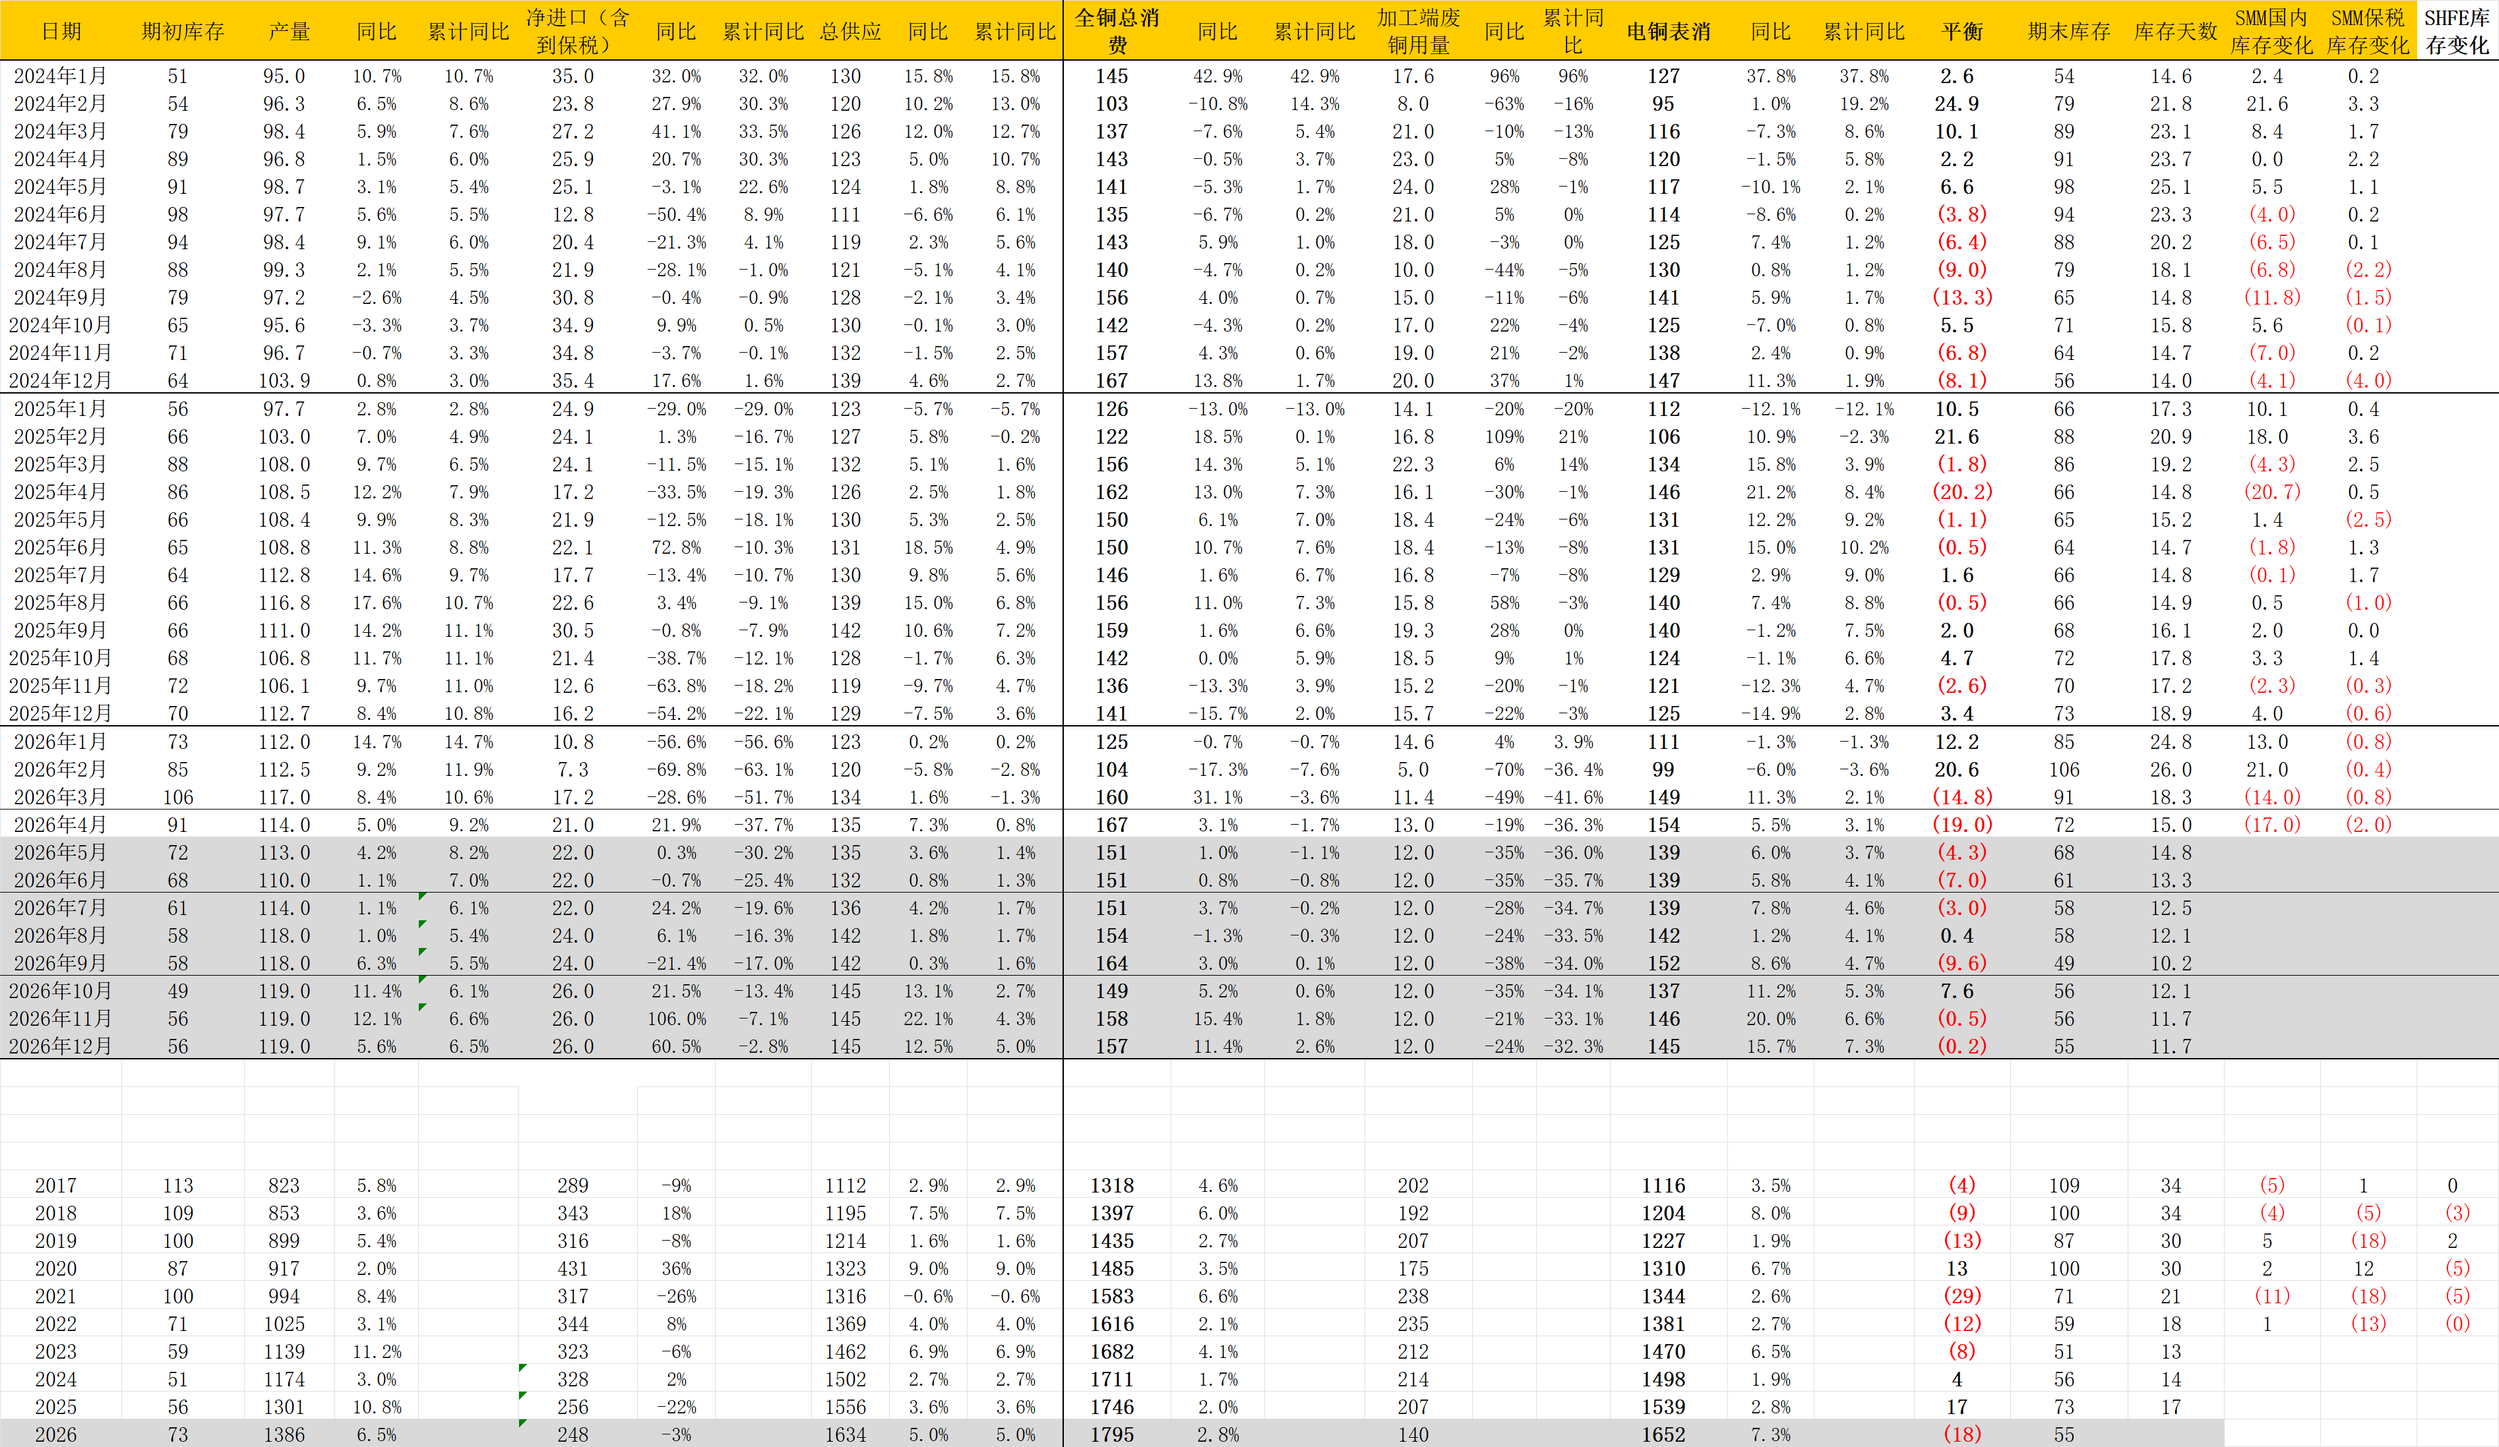
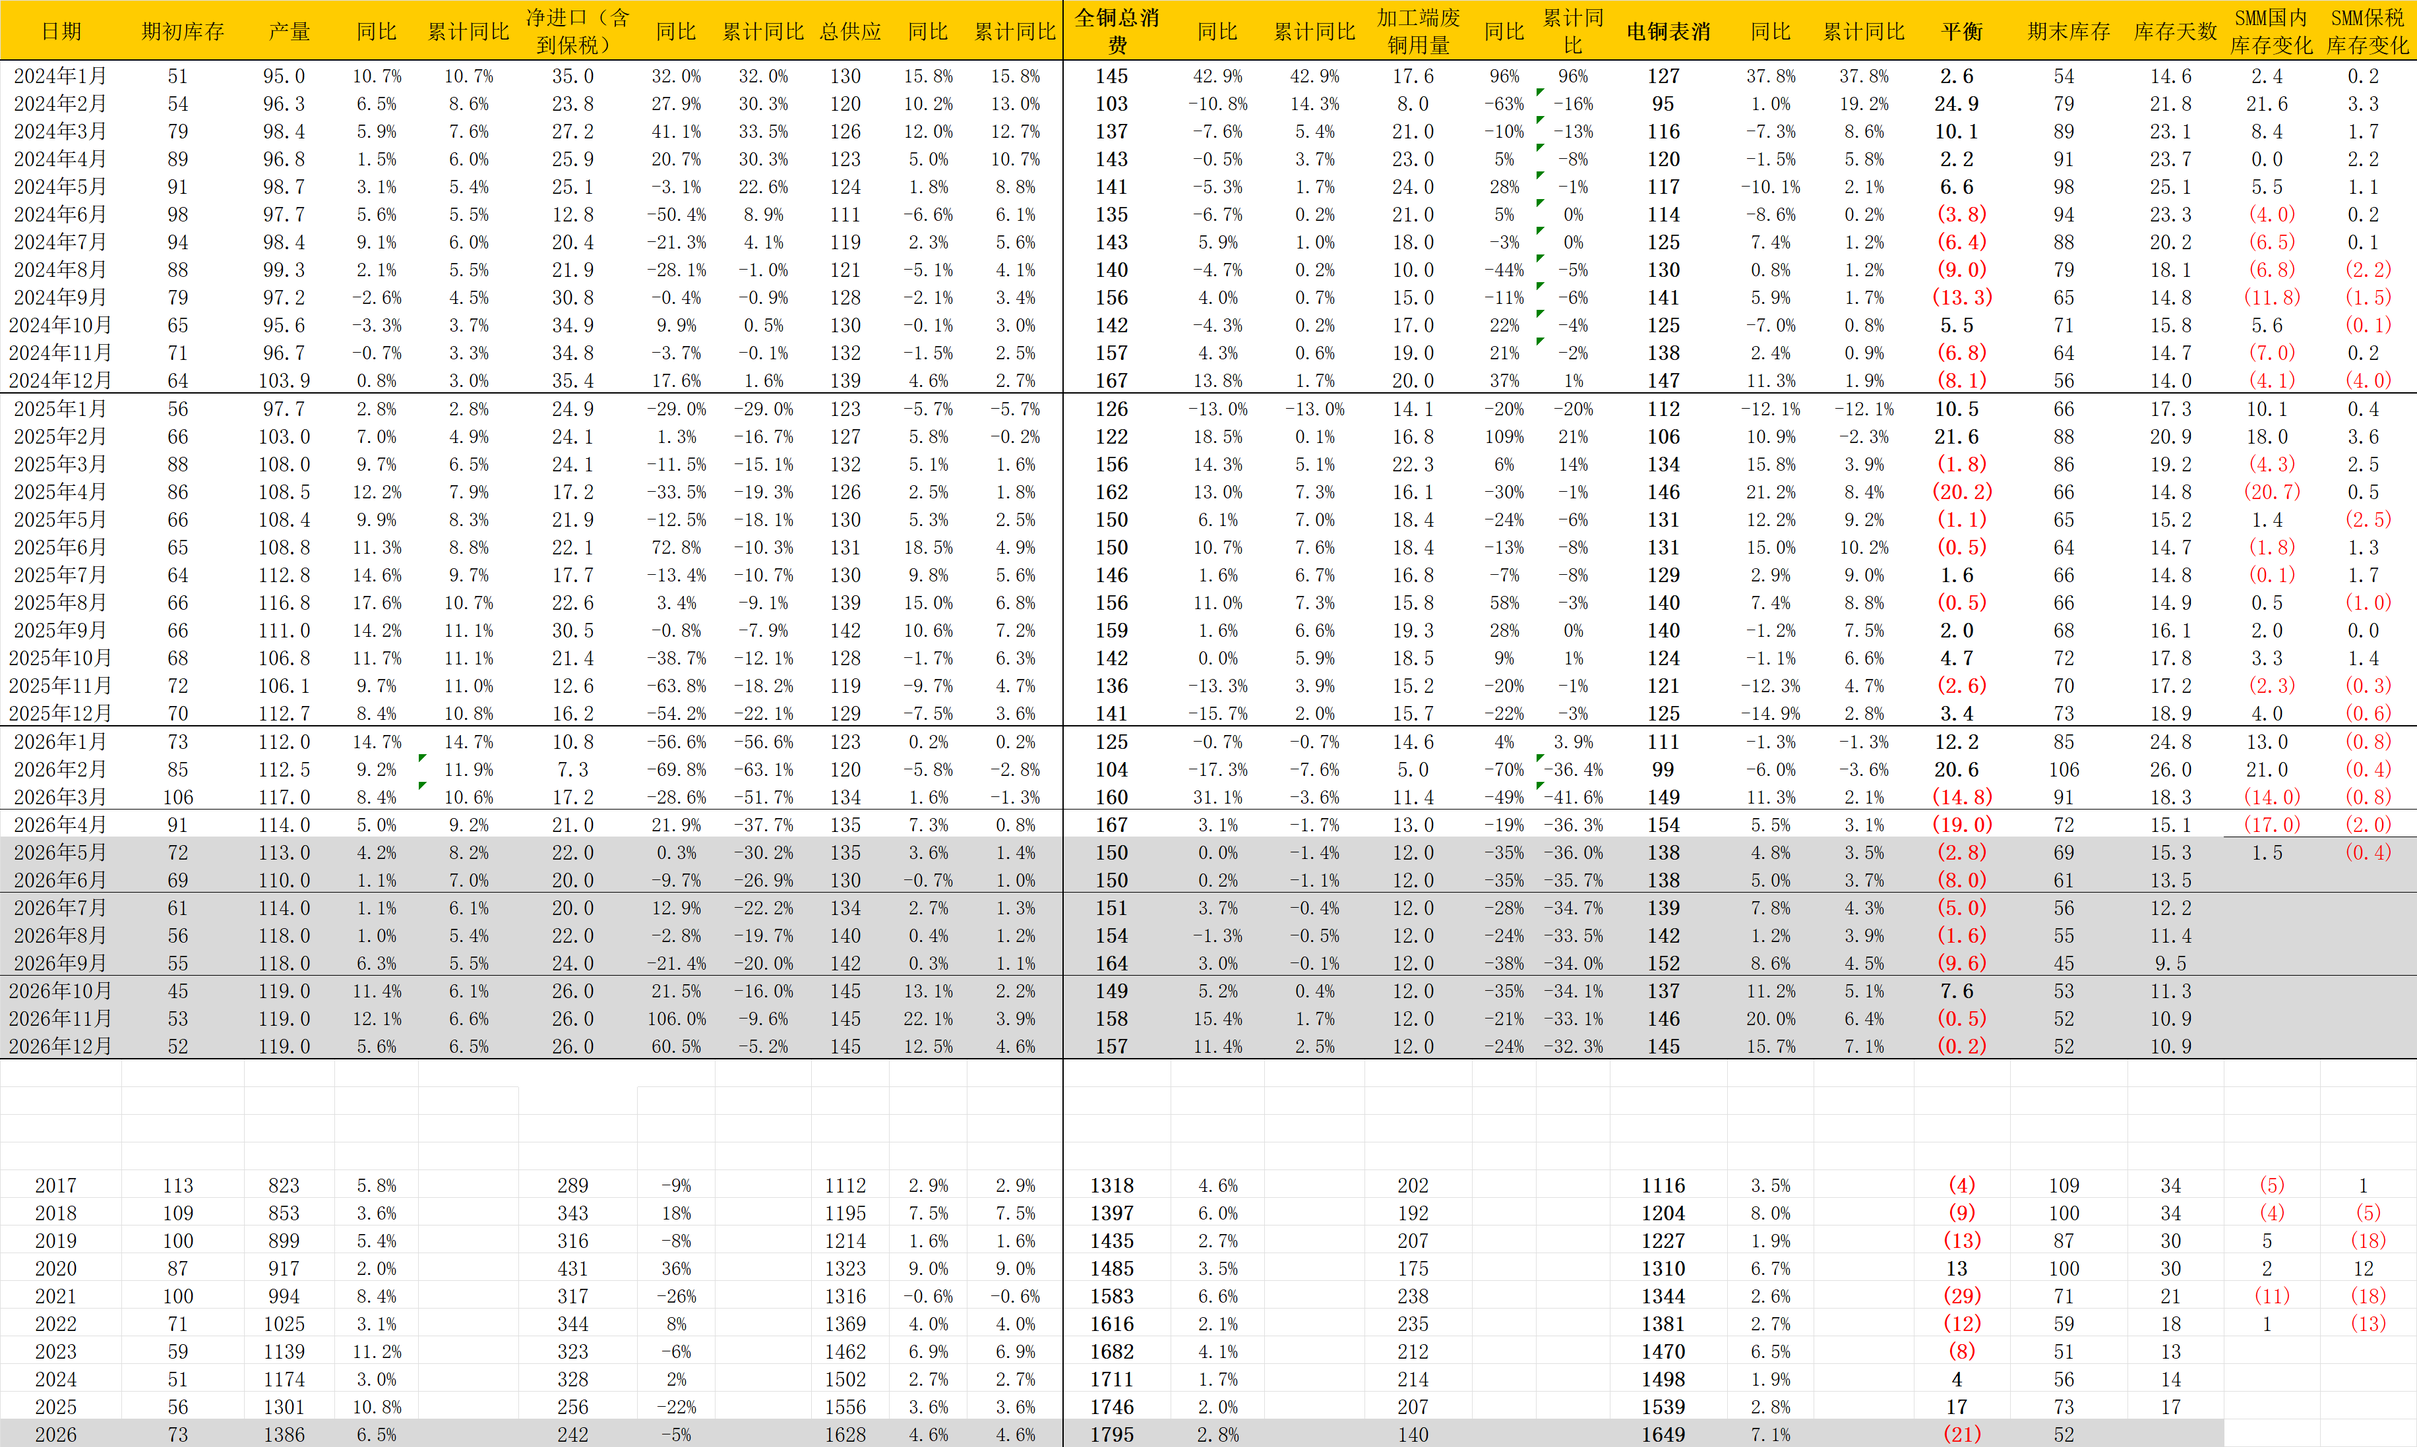
LAPTOP-KRS16UJL 2026-5-26:14:56:10

diff --git a/铜市场分析20260524.md b/铜市场分析20260524.md
@@ -1,7 +1,7 @@
 详细图表更新： https://yingfengwu-cn.github.io/qztz/
 
 
-周报总结：上周价格整体企稳，但受废铜成交脉冲和价格因素影响，本周中国区转为累库1w：1.SHFE-CMX价差重新走强到-3000rmb以上，CMX本周波动率降低；2.国内本周库存平衡，本周去库放缓主因价格因素，整体波动幅度不大；3.海外硫磺价格继续上涨，受中国禁止硫酸出口政策加剧，非洲湿法铜（250w左右）主要成本抬升，非洲小矿山50w左右产能减产; 4.税务问题影响大部分铜贸易商，在本周内贸升贴水上有所体现。<font color = red>产业户净空持仓回到年内低位、近一年低位，产业价格接受度重心抬升确认</font>。本周看到美国库存+7k，亚洲-4k，欧洲+0k，中国区库存+1k，全球库存+5k，因中国去库放缓，全球重回累库。废杆开工率受政策压制，两杆差主要受铜价带动意义不大。周CIF升水+2至$73，升水处于历史中位偏高区间，显示海外货边际趋紧，<font color = red>**目前盘面受加息预期影响小，且VIX平稳，预计下周情绪不会大幅波动，价格容易震荡偏强。**</font>
+周报总结：上周价格整体企稳，但受废铜成交脉冲和价格因素影响，本周中国区转为累库1w：1.SHFE-CMX价差重新走强到-3000rmb以上，CMX本周波动率降低；2.国内本周库存平衡，本周去库放缓主因价格因素，整体波动幅度不大；3.海外硫磺价格继续上涨，受中国禁止硫酸出口政策加剧，非洲湿法铜（250w左右）主要成本抬升，非洲小矿山50w左右产能减产; 4.税务问题影响大部分铜贸易商，在本周内贸升贴水上有所体现。<font color = red>产业户净空持仓回到年内低位、近一年低位，产业价格接受度重心抬升确认</font>。本周看到美国库存+7k，亚洲-2k，欧洲+0k，中国区库存+1k，全球库存+5k，因中国去库放缓，全球重回累库。废杆开工率受政策压制，两杆差主要受铜价带动意义不大，废铜成交冲高后脉冲但已经迅速回落。周CIF升水+2至$73，升水处于历史中位偏高区间，显示海外货边际趋紧，<font color = red>**目前盘面受加息预期影响小，且VIX平稳，预计下周情绪不会大幅波动，价格容易震荡偏强。**</font>
 
 短期观点：**看多铜价：铜宏微观内外双驱：海外矿端自由港项目复产均有不同程度延期，影响15w左右量级+国产废铜年化影响30万量级，宏观面上美国AI投资狂热加强消费预期促使美铜价差反弹吸引非美库存，后续国内到港量减少，从产业净空持仓看目前下跌风险仅为宏观风险事件**；短期资金犹豫主要因为反弹较充分，短期下游拿货量减弱博弈铜价但新订单未明显下滑且废铜杆减量对冲大部分消费下滑，市场抗跌共识强，目前类似每波上涨前震荡洗盘期，持仓量较前低未明显扩张，**节奏上矿端扰动消息经常是突破信号。废铜供应减量年化30万量级（从原料平衡表推测）提供底部更强支撑和上方更弱阻力，且对进口废铜增量持续性要求高，国内废铜问题不解决到年底国内缺口20w，全球缺口20w**；目前硫磺问题已经引起非洲小型湿法铜减产，大型湿法铜利润相较其他行业较丰厚，但中国禁止硫酸出口后也需要关注海外硫磺价格极端行情引发近一步减产，目前一季度非洲出口增量显著下降**。
 
